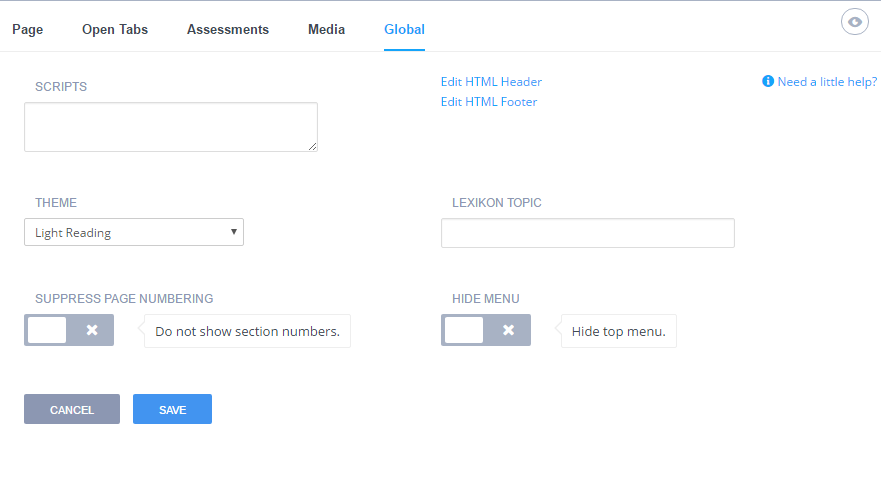
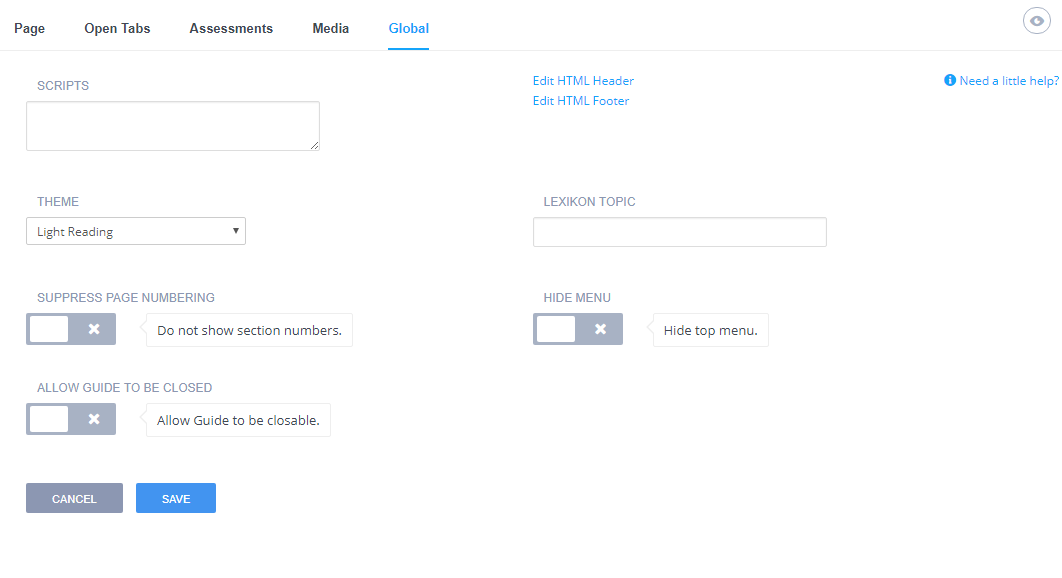
update close guides

diff --git a/source/docs/content/authoring/overview.html.md b/source/docs/content/authoring/overview.html.md
@@ -17,7 +17,7 @@ When in Preview mode, you can quickly switch back to Editor mode by selecting th
 
 ## Anatomy of the Guides Editor
 Below is a screenshot of the editor with the main components highlighted. 
-<img alt="authtoken" src="/img/docs/guides/overview.png" class="simple"/>
+<img alt="overview" src="/img/docs/guides/overview.png" class="simple"/>
 
 ## Editor Settings
 Editor settings gives you access to the key functions:
@@ -53,6 +53,8 @@ allows you to play audio files within your project.
 - **[Lexicon Topic](/docs/content/courses/lexikon/)**  if you use this option, an icon will appear in the Guide toolbar that will load the Lexikon window with the selected topic automatically selected.
 - **Suppress Page Numbering** allows you to suppress the section page numbers when in Play Mode.
 - **Hide Menu** allows you to hide the main Codio menu items in the IDE (Codio/Project/File/Edit etc) when the unit is run in a [Class](/docs/teacher/classes/assign-project/).
+- **Allow Guide to be closed** allows students to be able to close Guides. Guides can be restarted by selecting the Start Guides icon in the file tree:
+<img alt="StartGuides" src="/img/docs/guides/startguides.png" class="simple"/>
 
 
 - **[Hamburger Icon](/docs/content/authoring/collapse/)** can be pressed to show or hide the Section List.

diff --git a/source/docs/content/authoring/playmode.html.md b/source/docs/content/authoring/playmode.html.md
@@ -4,9 +4,13 @@ class_name: docs
 full_width: true
 ---
 
-To see your Guide running, you need to *Play* it. A prompt will be given as you open the project for the Guide to automatically start but you can alsl do this from the 'Tools->Guides Play' menu option.
+To see your Guide running, you need to *Play* it. A prompt will be given as you open the project for the Guide to automatically start but you can also do this from the 'Tools->Guides Play' menu option.
 
 At this point the panel layout is set up automatically according to the layout specified in the first Guide section and the first section will be displayed.
+
+By default, you are not able to close the Guide but if the Guides author has enabled this option you will be able to if using the **Collapse Guides** option isn't suitable for your requirements (see below). If you do close the Guide, you can restart it by clicking the **Start Guide** icon in the file tree:
+
+<img alt="StartGuides" src="/img/docs/guides/startguides.png" class="simple"/>
 
 
 ## Player Options
